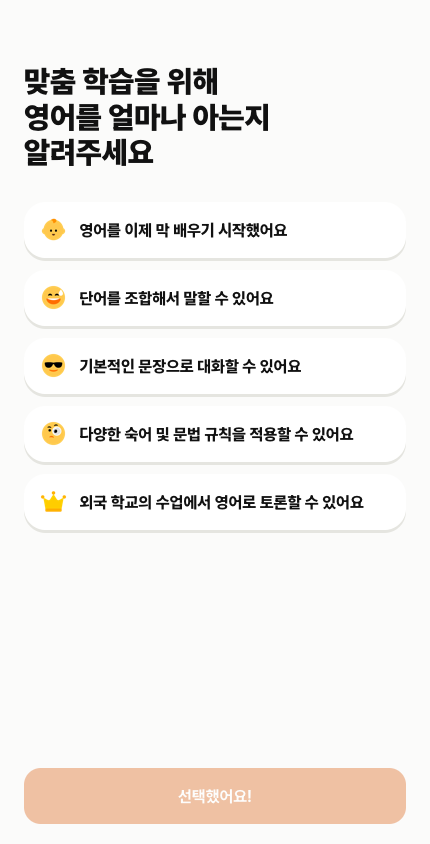
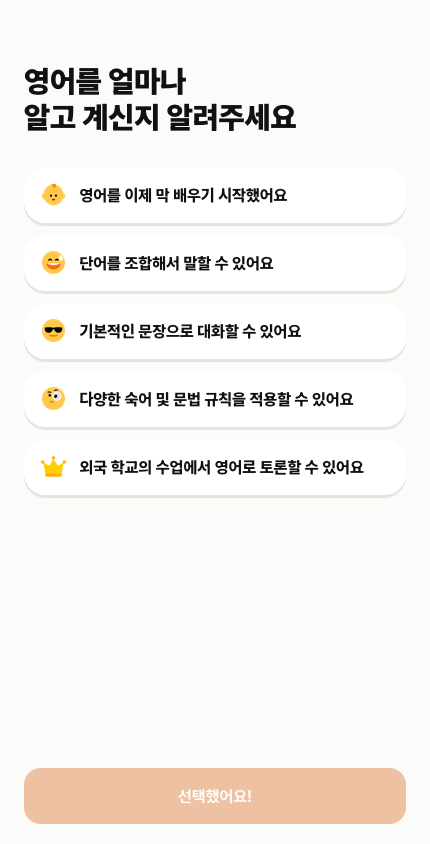
design(web): 영어 수준 헤드라인을 "영어를 얼마나 / 알고 계신지 알려주세요"로 확정한다

Changed region(s): [[0.0605, 0.0616, 0.907, 0.6469]]

diff --git a/apps/web/src/features/onboarding/ui/steps/LevelStep.tsx b/apps/web/src/features/onboarding/ui/steps/LevelStep.tsx
@@ -12,9 +12,9 @@ export const LevelStep = ({
 }) => (
   <div className="flex min-h-0 flex-1 flex-col pt-7">
     <h1 className="text-3xl leading-[1.18] font-black tracking-normal break-keep">
-      맞춤 학습을 위해
+      영어를 얼마나
       <br />
-      영어를 얼마나 아는지 알려주세요
+      알고 계신지 알려주세요
     </h1>
 
     <div className="mt-6 flex min-h-0 flex-1 flex-col">

diff --git a/apps/web/src/features/onboarding/ui/EnglishLevelGate.tsx b/apps/web/src/features/onboarding/ui/EnglishLevelGate.tsx
@@ -44,9 +44,9 @@ export const EnglishLevelGate = () => {
       }}
     >
       <h1 className="pt-10 text-3xl leading-[1.18] font-black tracking-normal break-keep">
-        맞춤 학습을 위해
+        영어를 얼마나
         <br />
-        영어를 얼마나 아는지 알려주세요
+        알고 계신지 알려주세요
       </h1>
 
       <div className="mt-8 flex min-h-0 flex-1 flex-col">
